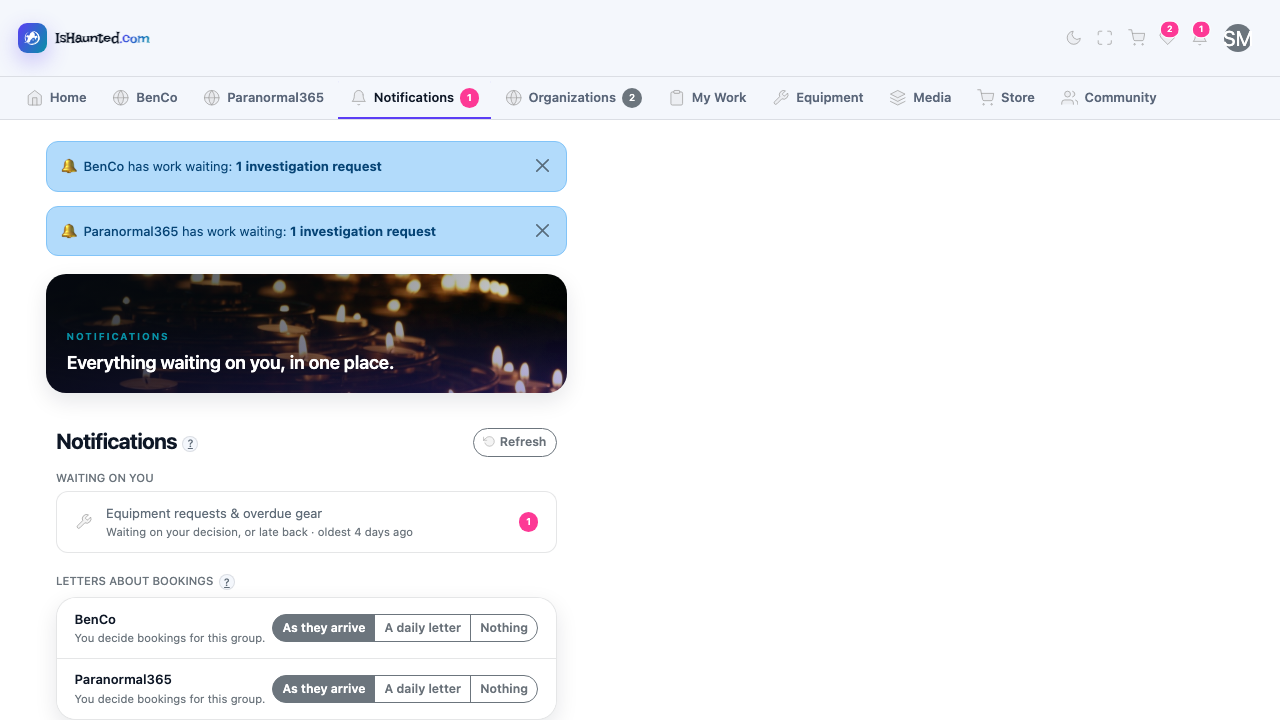
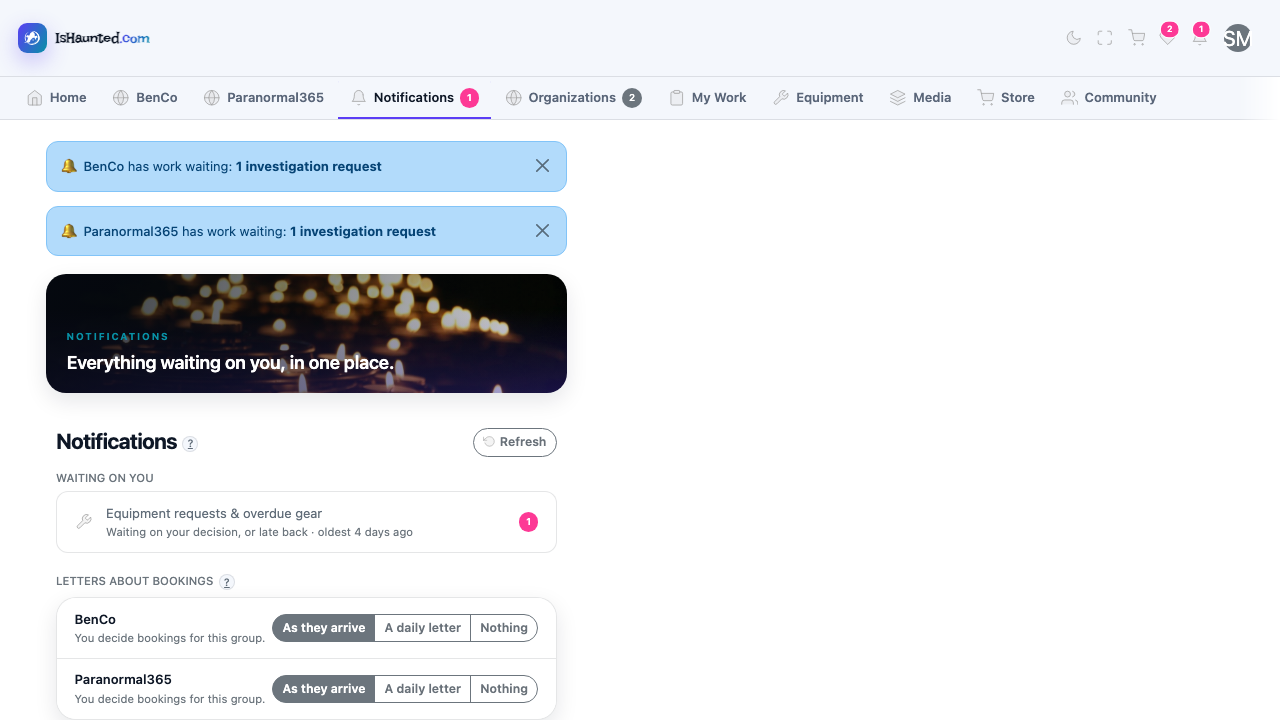
Signal: every photograph framed on its subject, a slim band for administration
Ben: "make the banner slimmer on admin pages … also make sure the image used is positioned best."

FRAMED BY LOOKING, NOT BY GUESSING. Every banner photograph was cropped to the band's real
proportions (roughly 6:1 to 8:1) at five heights and the subject chosen by eye. Only the vertical
number matters: a landscape photograph in a band this wide is scaled to the band's width and
cropped top-to-bottom, so a horizontal position does nothing at all. The one shared `center 45%`
was wrong for most of them — the graveyard at 45% was almost all fog, with its headstones down at
70%, and the hallway's lit doorway sat off-centre. The focus belongs to the PHOTO
(SectionBanner.Focal), not the section, so a photograph used twice is framed the same way twice,
and the desk hero now uses the hallway's.

FOUR PHOTOGRAPHS REPLACED, because no crop rescued them. Your Groups was a sunny pastel mansion
with traffic cones and parked bikes; it is a turreted hotel at dusk. Community and Plans were a
brightly lit corporate conference hall; they are a candlelit dinner and a wall of red theatre
seats. Administration was the one pastel mint corridor on a violet skin; it is the candle
chandelier. The store is a ouija board — which is, after all, kit.

ADMINISTRATION IS SLIM. Those screens are mostly grids; the full band spent ~140px above data a
person came to work in. Same photograph and scrim at about half the height.

TWO LAYOUT FAULTS the admin captures surfaced:
[…]

Changed region(s): [[0.0625, 0.3667, 0.4375, 0.55], [0.0938, 0.5194, 0.1562, 0.55]]

diff --git a/Ben.Web.Website/wwwroot/css/themes/signal.css b/Ben.Web.Website/wwwroot/css/themes/signal.css
@@ -378,6 +378,16 @@ h1, h2, h3, .h1, .h2, .h3, .display-1, .display-2, .display-3, .display-4 {
 }
 .app-topnav::-webkit-scrollbar { display: none; }
 
+/* A SuperAdmin in three groups has three group names on the bar, and it runs past the window.
+   It scrolls, but with the scrollbar hidden nothing said so — the last entry was simply cut in
+   half. The fade at the right edge is the cue. It only shows while there is more to scroll to:
+   app.css can't know that, so it is the browser's own scroll-timeline where supported, and a
+   permanent soft edge where not, which costs nothing when the bar fits. */
+.app-topnav {
+    -webkit-mask-image: linear-gradient(to right, #000 calc(100% - 3rem), transparent);
+            mask-image: linear-gradient(to right, #000 calc(100% - 3rem), transparent);
+}
+
 .topnav-list {
     display: flex;
     align-items: stretch;
@@ -428,6 +438,14 @@ h1, h2, h3, .h1, .h2, .h3, .display-1, .display-2, .display-3, .display-4 {
    were clipped by the edge of the page, which read as a column again rather than a card. */
 .app-shell { display: flex; align-items: flex-start; gap: 1.5rem; padding-inline: 1.25rem; }
 .app-shell > .content-wrapper { flex: 1; min-width: 0; }
+
+/* min-width:0 at EVERY level, not just the innermost. A flex or grid child defaults to
+   `min-width: auto`, which means "never narrower than the widest thing inside me" — so on an
+   admin page the user grid's table set the width of .app-shell, then .app-content, and the
+   notices, the banner and the grid all ran off the right edge of the window together. With the
+   chain broken, a wide table scrolls inside its own box instead of stretching the page. */
+.app-body, .app-content, .app-shell { min-width: 0; }
+.app-content { overflow-x: clip; }
 
 .app-rail {
     flex: none;

diff --git a/Ben.Web.Website.Library/Shared/SectionBanner.razor.css b/Ben.Web.Website.Library/Shared/SectionBanner.razor.css
@@ -16,7 +16,7 @@
     position: absolute;
     inset: 0;
     z-index: -1;
-    background-position: center 45%;
+    /* position is set per photograph, inline, from SectionBanner.Focal */
     background-size: cover;
     /* the photograph eases in, rather than snapping, once it arrives */
     animation: section-banner-in .6s ease both;
@@ -65,3 +65,11 @@
     .section-banner { min-height: 6.5rem; }
     .section-banner__line { font-size: 1rem; }
 }
+
+/* Administration and moderation: a slimmer band. Those screens are mostly grids, and a full band
+   spent ~140px of height above data a person came to work in — enough to know where you are,
+   no more. Same photograph, same scrim, less of both. */
+.section-banner--slim { min-height: 4.75rem; margin-bottom: 1rem; }
+.section-banner--slim .section-banner__inner { padding: .7rem 1.25rem .75rem; }
+.section-banner--slim .section-banner__kicker { margin-bottom: .1rem; }
+.section-banner--slim .section-banner__line { font-size: .98rem; }

diff --git a/Ben.Web.Website.Library/Shared/MemberDesk.razor.css b/Ben.Web.Website.Library/Shared/MemberDesk.razor.css
@@ -16,7 +16,7 @@
 .desk-hero__photo {
     position: absolute;
     inset: 0;
-    background: url('/static/images/signal/i2-dark-hallway.jpg') center 40% / cover no-repeat;
+    background: url('/static/images/signal/i2-dark-hallway.jpg') center 52% / cover no-repeat;   /* the lit doorway — see SectionBanner.Focal */
     z-index: -2;
 }
 

diff --git a/Ben.Web.Playwright/Capture/SignalShots.cs b/Ben.Web.Playwright/Capture/SignalShots.cs
@@ -35,7 +35,14 @@ public class SignalShots : BenTestBase
         ("notifications",   "/notifications"),
         ("my-equipment",    "/my-equipment"),
         ("store",           "/store"),
+        ("pricing",         "/pricing"),
         ("styleguide",      "/styleguide"),
+    ];
+
+    /// <summary>Administration is SuperAdmin-only, so it is photographed as the SuperAdmin.</summary>
+    private static readonly (string Slug, string Url)[] AdminScreens =
+    [
+        ("admin-users",     "/admin/users"),
     ];
 
     [Test]
@@ -44,7 +51,14 @@ public class SignalShots : BenTestBase
         var root = Path.Combine(RepoRoot(), "docs", "design", "preview", "signal-live");
         Directory.CreateDirectory(root);
 
-        await LoginAsync(UserEmail, UserPassword);          // Sarah — an ordinary administrator
+        await ShootAsync(root, UserEmail, UserPassword, Screens);            // Sarah
+        await ShootAsync(root, SuperAdminEmail, SuperAdminPassword, AdminScreens);
+    }
+
+    private async Task ShootAsync(string root, string email, string password, (string Slug, string Url)[] screens)
+    {
+        await Context.ClearCookiesAsync();
+        await LoginAsync(email, password);
 
         foreach (var theme in new[] { "dark", "light" })
         {
@@ -54,7 +68,7 @@ public class SignalShots : BenTestBase
                 "t => { try { localStorage.setItem('layoutSettings', JSON.stringify({ theme: t })); " +
                 "localStorage.setItem('ben-theme', t); } catch (e) { } }", theme);
 
-            foreach (var (slug, url) in Screens)
+            foreach (var (slug, url) in screens)
             {
                 await Page.GotoAsync($"{BaseUrl}{url}");
                 await Expect(Page.Locator(".app-topnav")).ToBeVisibleAsync(new() { Timeout = 20_000 });
